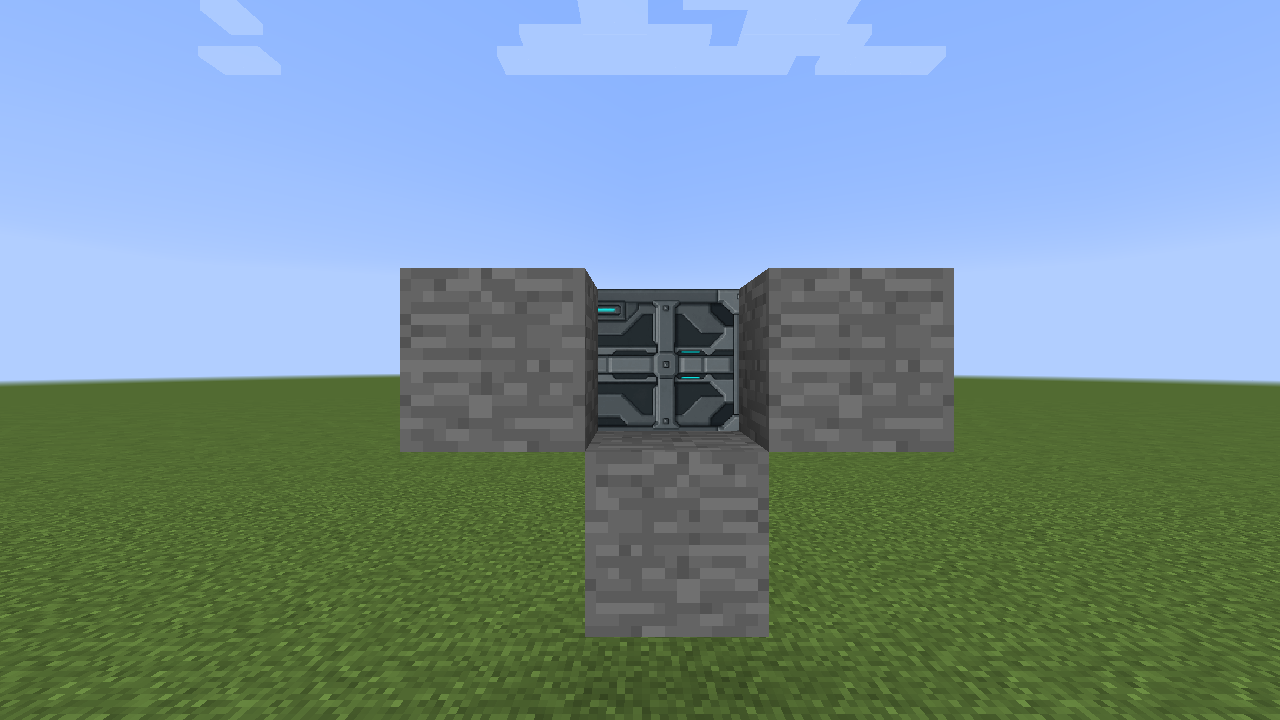
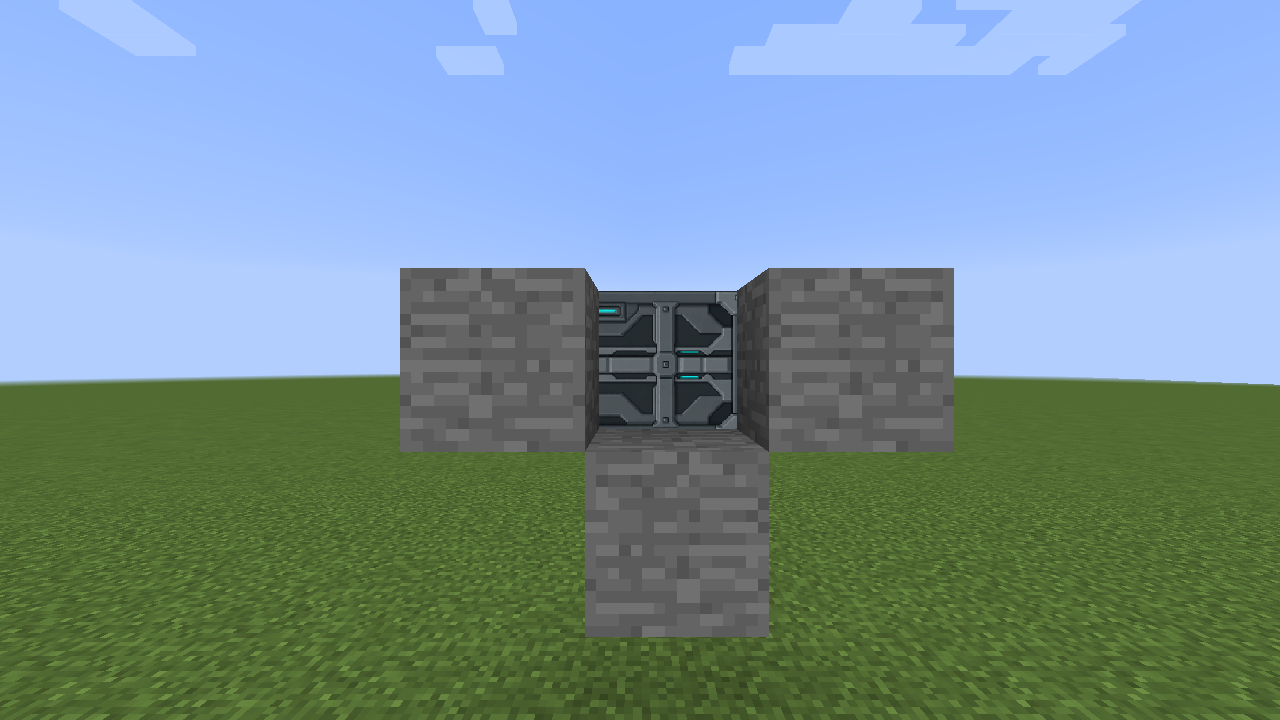
Capture and export gallery updates incrementally

diff --git a/testclient/export_gallery.py b/testclient/export_gallery.py
@@ -1,6 +1,7 @@
 #!/usr/bin/env python3
 """Copy documentation-worthy ReproLab shots to stable GitHub paths."""
 
+import argparse
 import re
 import shutil
 import sys
@@ -139,23 +140,40 @@ SHOTS["programmable_diagonal_width_gui"] = "v1.1/diagonal-config.png"
 
 
 def main():
-    if len(sys.argv) != 2:
-        raise SystemExit("usage: export_gallery.py RENDER_RUN_DIRECTORY")
-    source = Path(sys.argv[1]).resolve()
-    if DEST.exists():
-        shutil.rmtree(DEST)
-    missing = []
-    for shot, relative in SHOTS.items():
-        image = source / f"shot_{shot}.png"
-        if not image.is_file():
-            missing.append(image.name)
-            continue
+    parser = argparse.ArgumentParser(description="Incrementally export available gallery captures; preserve unrelated images.")
+    parser.add_argument("source", type=Path)
+    parser.add_argument("--full", action="store_true", help="Require every mapped screenshot before exporting anything")
+    parser.add_argument("--prefix", action="append", default=[], help="Export only mapped shots with this prefix; may repeat")
+    parser.add_argument("--only", nargs="+", default=[], help="Export only these exact shot names")
+    args = parser.parse_args()
+    if args.full and (args.prefix or args.only):
+        parser.error("--full cannot be combined with a selection")
+    unknown = set(args.only) - SHOTS.keys()
+    if unknown:
+        parser.error("Unknown shots: " + ", ".join(sorted(unknown)))
+    selected = {name: dest for name, dest in SHOTS.items()
+                if not (args.prefix or args.only) or name in args.only
+                or any(name.startswith(prefix) for prefix in args.prefix)}
+    if not selected:
+        parser.error("No mapped shots match the selection")
+    available = {name: dest for name, dest in selected.items()
+                 if (args.source / ("shot_" + name + ".png")).is_file()}
+    if args.full or args.prefix or args.only:
+        missing = selected.keys() - available.keys()
+        if missing:
+            raise SystemExit("Missing gallery screenshots: " + ", ".join(sorted(missing)))
+    if not available:
+        raise SystemExit("No mapped screenshots in " + str(args.source))
+    changed = 0
+    for name, relative in available.items():
+        source = args.source / ("shot_" + name + ".png")
         target = DEST / relative
+        if target.exists() and source.read_bytes() == target.read_bytes():
+            continue
         target.parent.mkdir(parents=True, exist_ok=True)
-        shutil.copy2(image, target)
-    if missing:
-        raise SystemExit("missing gallery screenshots: " + ", ".join(missing))
-    print(f"Exported {len(SHOTS)} gallery screenshots to {DEST}")
+        shutil.copy2(source, target)
+        changed += 1
+    print(f"Exported {changed} changed gallery images; {len(available)-changed} unchanged; unrelated images preserved")
 
 
 if __name__ == "__main__":

diff --git a/testclient/validate_focused_gallery.py b/testclient/validate_focused_gallery.py
@@ -1,0 +1,47 @@
+#!/usr/bin/env python3
+"""Validate fresh captures and the runtime contracts relevant to a focused run."""
+import sys
+from pathlib import Path
+from PIL import Image
+from export_gallery import SHOTS
+
+source, prefix, target = Path(sys.argv[1]), sys.argv[2], sys.argv[3]
+selected = [name for name in SHOTS if name.startswith(prefix)]
+assert selected, 'No mapped screenshots match ' + prefix
+log = (source / 'client.log').read_text()
+
+def require(marker):
+    assert marker in log, 'Missing runtime result: ' + marker
+
+for name in selected:
+    image = source / ('shot_' + name + '.png')
+    assert image.exists(), 'Missing focused screenshot: ' + str(image)
+    with Image.open(image) as png:
+        assert png.size == (1280, 720), 'Unexpected screenshot dimensions: ' + name
+        png.verify()
+    require('wrote shot_' + name + '.png')
+    if name.startswith('gallery_trapdoor_followup_'):
+        require('trapdoor-material-runtime PASS ' + name[len('gallery_trapdoor_followup_'):])
+    if name.startswith('gallery_trapdoor_patch_'):
+        require('diagonal-partial-patch-runtime PASS client ' + name[len('gallery_trapdoor_'):])
+require('custom-materials-runtime PASS')
+require('imported-materials-runtime PASS')
+if target == 'trapdoors':
+    for marker in ['sliding-next-mount-overlap-runtime PASS client closed',
+                   'sliding-next-mount-overlap-runtime PASS client open',
+                   'vanilla-trapdoor-alignment-runtime PASS client',
+                   'opposing-next-block-runtime PASS client',
+                   'next-block-open-placement-runtime PASS',
+                   'trapdoor-movement-hinge-gui PASS',
+                   'offset-trapdoor-hitbox-runtime PASS',
+                   'trapdoor-side-placement-runtime PASS',
+                   'trapdoor-offset-copy-neighbor-runtime PASS',
+                   'trapdoor-group-offset-guard PASS',
+                   'diagonal-trapdoor-hotbar-runtime PASS',
+                   'diagonal-sliding-style-gui PASS into wall',
+                   'diagonal-sliding-style-gui PASS over wall']:
+        require(marker)
+    for family in ('block', 'slab', 'door', 'trapdoor'):
+        require('custom-picker-reopen-runtime PASS ' + family)
+print('PASS: focused live checks and', len(selected), 'fresh captures for', prefix)
+print('Full-gallery pixel analyzers were not run for this focused scope.')

diff --git a/docs/gallery/task-improvements.md b/docs/gallery/task-improvements.md
@@ -42,7 +42,7 @@ Follow the [gear alignment and cover setup](../landing-gear-covers.md).
 ## Shared materials
 
 The same categorized picker offers built-in finishes, door artwork, lights,
-static screens, filesystem PNGs and a Custom block or door sample. Custom
+static screens, filesystem PNGs and a Custom block or door sample. Computing, Fuel, Hull, Power, Trapdoors and Windows add 33 bundled materials. New normal and diagonal trapdoors use Cyan-lit Armored Sci-Fi Hatch-4 by default. Custom
 selection uses the sampled block's texture while keeping the programmable
 block's shape.
 
@@ -114,7 +114,11 @@ The current Custom material is highlighted and automatically scrolled into view 
 
 ## Motion clearance and next-block placement
 
-Rotating normal leaves keep their thickness inside the mounting cell when open. Sliding diagonal leaves lift clear of the continuation wall before moving sideways. Next block places the untriggered leaf across the neighboring cell with a one-pixel overhang beyond its far edge; rotating then folds it upright into its own mount. Normal and diagonal leaf edges use the standard programmable door’s metal side artwork.
+Rotating normal leaves align with vanilla trapdoors at the mounting edge when open, with only a tiny anti-z-fighting inset. Sliding diagonal leaves lift clear of the continuation wall before moving sideways. Rotate into next block places the untriggered leaf across the neighboring cell with a one-pixel overhang beyond its far edge, then folds it upright into its own mount. Slide into next block instead overlaps the owning mounting cell by one pixel while closed, then retracts horizontally into that cell. Normal and diagonal leaf edges use the standard programmable door’s metal side artwork.
+
+The vanilla oak leaf (left) and default programmable leaf (right) share the same open alignment against their supporting blocks.
+
+![Vanilla and programmable trapdoors align at the mounting edge](../images/gallery/tasks/trapdoor-vanilla-alignment-open.png)
 
 | Rotating beside blocks | Sliding over a diagonal wall |
 | --- | --- |
@@ -123,6 +127,10 @@ Rotating normal leaves keep their thickness inside the mounting cell when open. 
 | Next-block leaf, closed | Next-block leaf, rotating open |
 | --- | --- |
 | ![Closed leaf covers the neighboring cell](../images/gallery/tasks/trapdoor-next-rotating-closed.png) | ![Rotated leaf folds back into its mounting cell](../images/gallery/tasks/trapdoor-next-rotating-open.png) |
+
+| Slide into next block, closed | Slide into next block, open |
+| --- | --- |
+| ![Closed slider keeps its one-pixel overlap at the mounting end](../images/gallery/tasks/trapdoor-next-sliding-closed.png) | ![The slider retracts into its owning cell](../images/gallery/tasks/trapdoor-next-sliding-open.png) |
 
 Matching-height next-block covers on opposite sides of a two-block opening omit the standalone one-pixel protrusion. They meet without overlapping and remain independently controlled. Configured next-block items place open, showing which cell owns the leaf. Open rotating covers use only a tiny clearance from the covered block, rather than a one-pixel gap.
 

diff --git a/docs/gallery/CONTRIBUTING.md b/docs/gallery/CONTRIBUTING.md
@@ -3,24 +3,37 @@
 The gallery is generated from a real Forge client and should never be updated
 by manually staging or cropping screenshots.
 
-To regenerate everything:
+For a small trapdoor change, capture and validate just the affected scenes:
 
 ```bash
-testclient/generate_gallery.sh
+testclient/generate_gallery.sh --focus trapdoors
 ```
 
-The command builds the current jar, starts a fresh deterministic superflat
-world under software rendering, disables tutorial prompts and mob spawning,
-runs the live runtime contracts, captures the curated scenes, replaces
-`docs/images/gallery`, and fails if any expected image is missing.
+`--focus` also accepts a mapped scene prefix. It runs the focused runtime checks
+and verifies the requested captures; it does not run the full-gallery pixel
+analyzers. Inspect the changed images before publishing them.
 
-A successful `testclient/test_viewscreen.sh` run captures the same curated scenes
-and also runs the image analyzers. You can publish that validated capture without
-starting a second client:
+A full regression and gallery refresh is explicit:
 
 ```bash
-python3 testclient/export_gallery.py testclient/render-run.<id>
+testclient/generate_gallery.sh --full
 ```
+
+Both commands build the current standard jar and start a real Forge client in a
+fresh deterministic world under software rendering. The exporter merges captures
+into `docs/images/gallery`, preserving unrelated images and byte-identical files.
+It never deletes the gallery directory.
+
+To reuse a successful live check without starting a second client:
+
+```bash
+testclient/test_viewscreen.sh --focus trapdoors
+python3 testclient/export_gallery.py testclient/render-run.<id> --prefix gallery_trapdoor_followup_
+```
+
+The exporter also accepts `--only shot_name another_shot`. Without a selection it
+exports whichever mapped captures exist in the supplied run. `--full` requires
+all mapped captures before writing any images.
 
 The live-suite run includes `artifact.sha256` and `source-commit.txt` to identify
 the tested binary and source. Check that the artifact hash still matches before
@@ -33,7 +46,7 @@ When adding or changing a showcased block:
    `src/main/java/com/vandorlabs/client/ReproLab.java`.
 2. Add its stable output path to `SHOTS` in `testclient/export_gallery.py`.
 3. Reference that stable path from the appropriate page in `docs/gallery`.
-4. Run `testclient/generate_gallery.sh` and visually inspect every changed PNG.
+4. Run `testclient/generate_gallery.sh --focus <scene-prefix>` and visually inspect every changed PNG.
 
 Frame individual blocks tightly enough to show their geometry and texture.
 Show both states when appearance changes with activation. Use matching camera

diff --git a/README.md b/README.md
@@ -214,7 +214,7 @@ facing, hinge side, door state, and which side was viewed — or better, a
 screenshot.
 
 For a repeatable rendering regression test, run
-`testclient/test_viewscreen.sh`. It builds the jar, boots a real Forge 1.12.2
+`testclient/test_viewscreen.sh --full`. It builds the jar, boots a real Forge 1.12.2
 client under Xvfb with Mesa software rendering, constructs a deterministic
 test scene, captures the viewscreen and console from several angles, and
 checks the resulting pixels against an Engineering Display control, samples
@@ -222,10 +222,10 @@ every engineering animation slot for black frames, and runs door state and
 pairing contracts inside the integrated world. Each run
 keeps its screenshots, manifest, and client log under `testclient/render-run.*`.
 
-To rebuild the documentation gallery, run `testclient/generate_gallery.sh`.
-It performs the build and live client contracts, captures all curated scenes,
-and publishes the stable images used by the Markdown pages under
-`docs/images/gallery`.
+For incremental gallery updates, run `testclient/generate_gallery.sh --focus trapdoors`
+or use another scene prefix. Unrelated images are preserved. Use `--full` for a
+complete refresh. See [gallery maintenance](docs/gallery/CONTRIBUTING.md) for
+reusing an existing validated capture without starting another client.
 
 ## Dynmap compatibility
 

diff --git a/CHANGELOG.md b/CHANGELOG.md
@@ -2,6 +2,8 @@
 
 ## Unreleased
 
+- Gallery updates support focused live captures and incremental export, preserving unrelated screenshots and avoiding a second client run. Full refreshes require `--full`.
+
 - Slide into next block overlaps the owning mounting block by one pixel when closed, rather than protruding past the far edge of the covered block. Texture mapping, selection and collision follow the corrected leaf.
 
 - Ordinary rotating trapdoors align with vanilla trapdoors when open, retaining only a tiny anti-z-fighting clearance. The alignment applies to existing saved groups as well as individual leaves.

diff --git a/docs/performance/README.md b/docs/performance/README.md
@@ -185,7 +185,7 @@ original baseline coverage is in `testclient/render-run.gRvrGz`.
 
 ```bash
 JAVA_HOME=/usr/lib/jvm/java-8-openjdk-amd64 ./gradlew build --no-daemon
-testclient/test_viewscreen.sh
+testclient/test_viewscreen.sh --full
 testclient/benchmark_programmable.sh
 python3 testclient/compare_programmable_benchmarks.py before.csv after.csv
 python3 testclient/compare_programmable_images.py BEFORE_RUN_DIR AFTER_RUN_DIR
